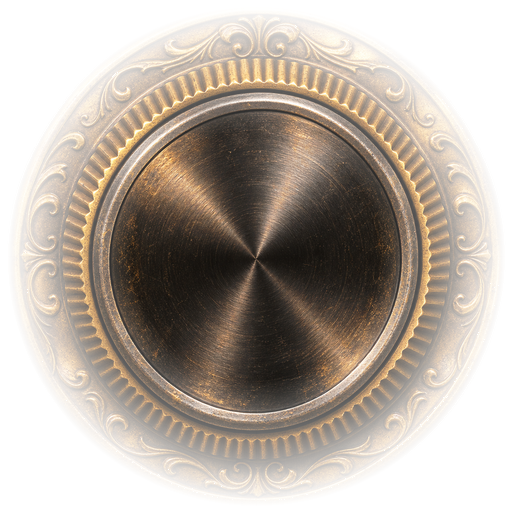
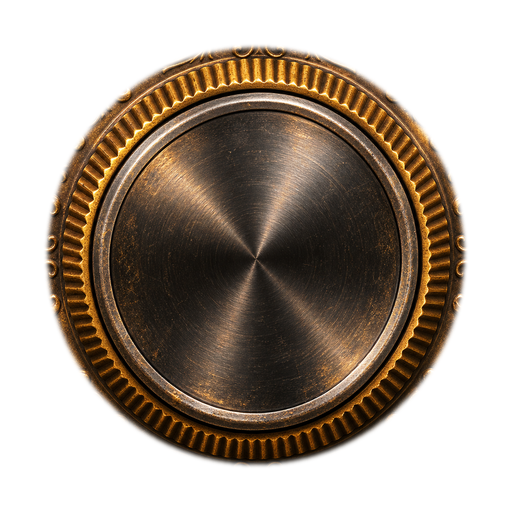
Match approved faceplate hardware, remove false meter lights and eliminate waveform bleed

diff --git a/Source/PluginEditor.cpp b/Source/PluginEditor.cpp
@@ -246,10 +246,10 @@ void SteamFilterAudioProcessorEditor::resized() {
         c.slider->setBounds(int(r.getX()*sx),int(r.getY()*sy),int(r.getWidth()*sx),int(r.getHeight()*sy));}
     for(auto& c:buttonRects){const auto r=c.r;
         c.button->setBounds(int(r.getX()*sx),int(r.getY()*sy),int(r.getWidth()*sx),int(r.getHeight()*sy));}
-    waveform->setBounds(int(208*sx),int(207*sy),int(995*sx),int(109*sy));
+    waveform->setBounds(int(204*sx),int(207*sy),int(1020*sx),int(109*sy));
     vintageVU->setBounds(int(8*sx),int(708*sy),int(192*sx),int(172*sy));
     rightMeter->setBounds(int(1542*sx),int(378*sy),int(83*sx),int(277*sy));
-    constexpr float metersX[]={283,485,687,889,1091,1293,1495};
+    constexpr float metersX[]={283,490,696,900,1105,1311,1513};
     for(int k=0;k<steam::kModuleCount;++k)
         moduleMeters[k]->setBounds(int(metersX[k]*sx),int(426*sy),int(18*sx),int(70*sy));
 }
